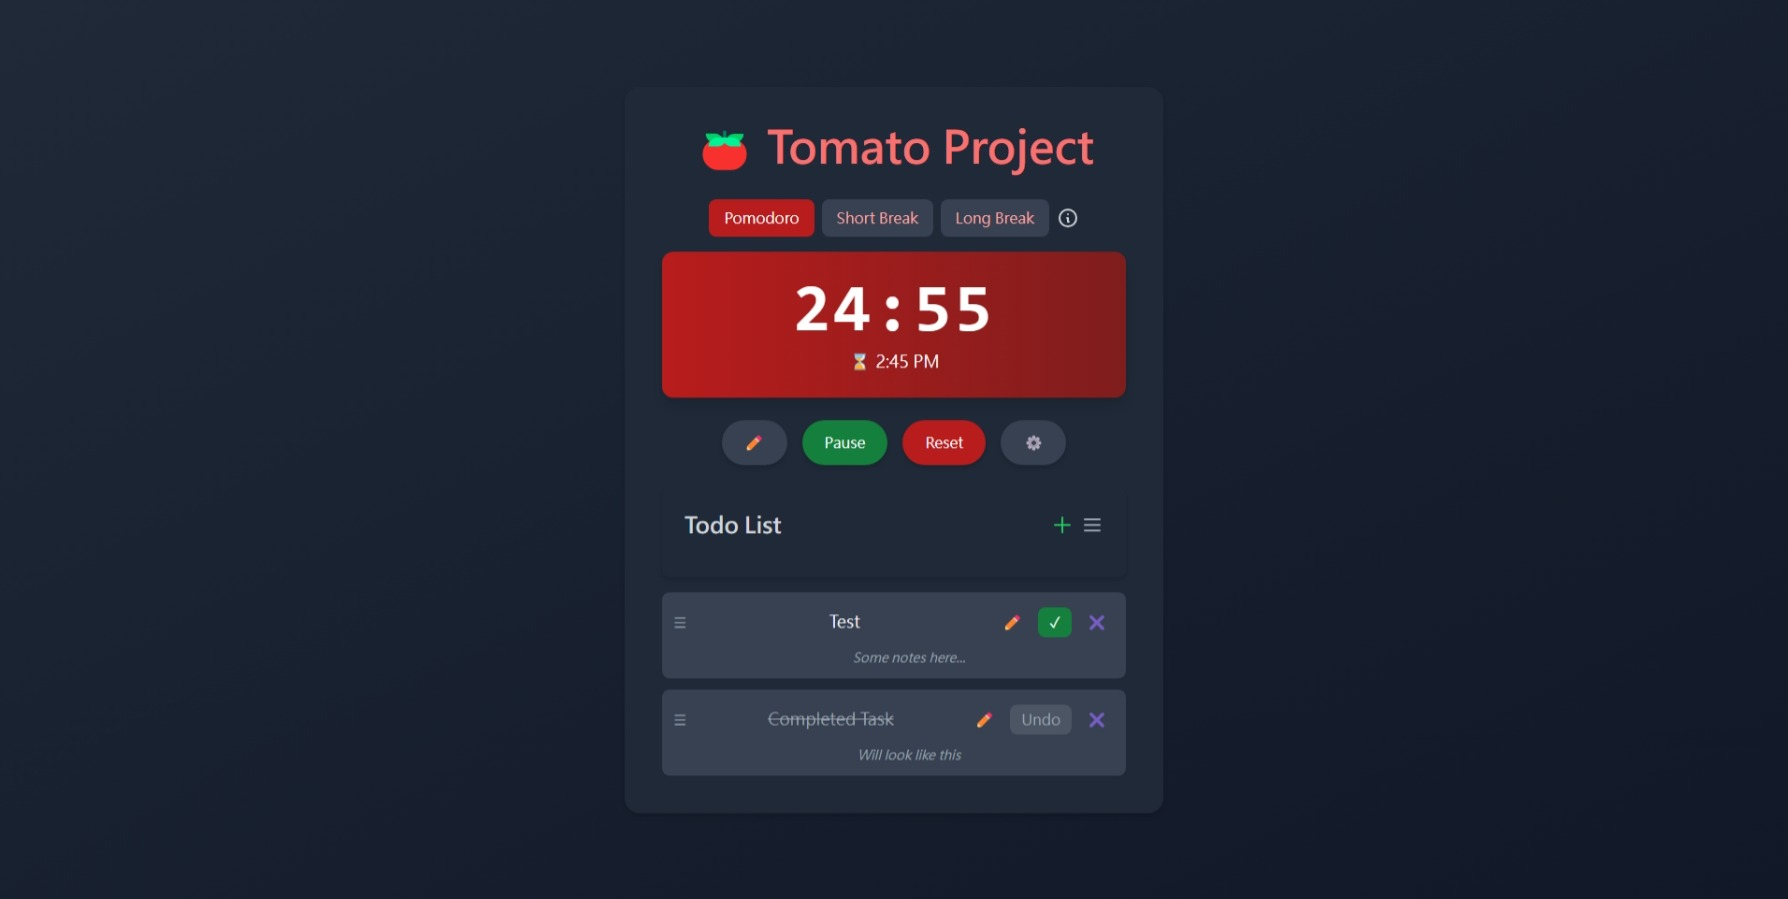
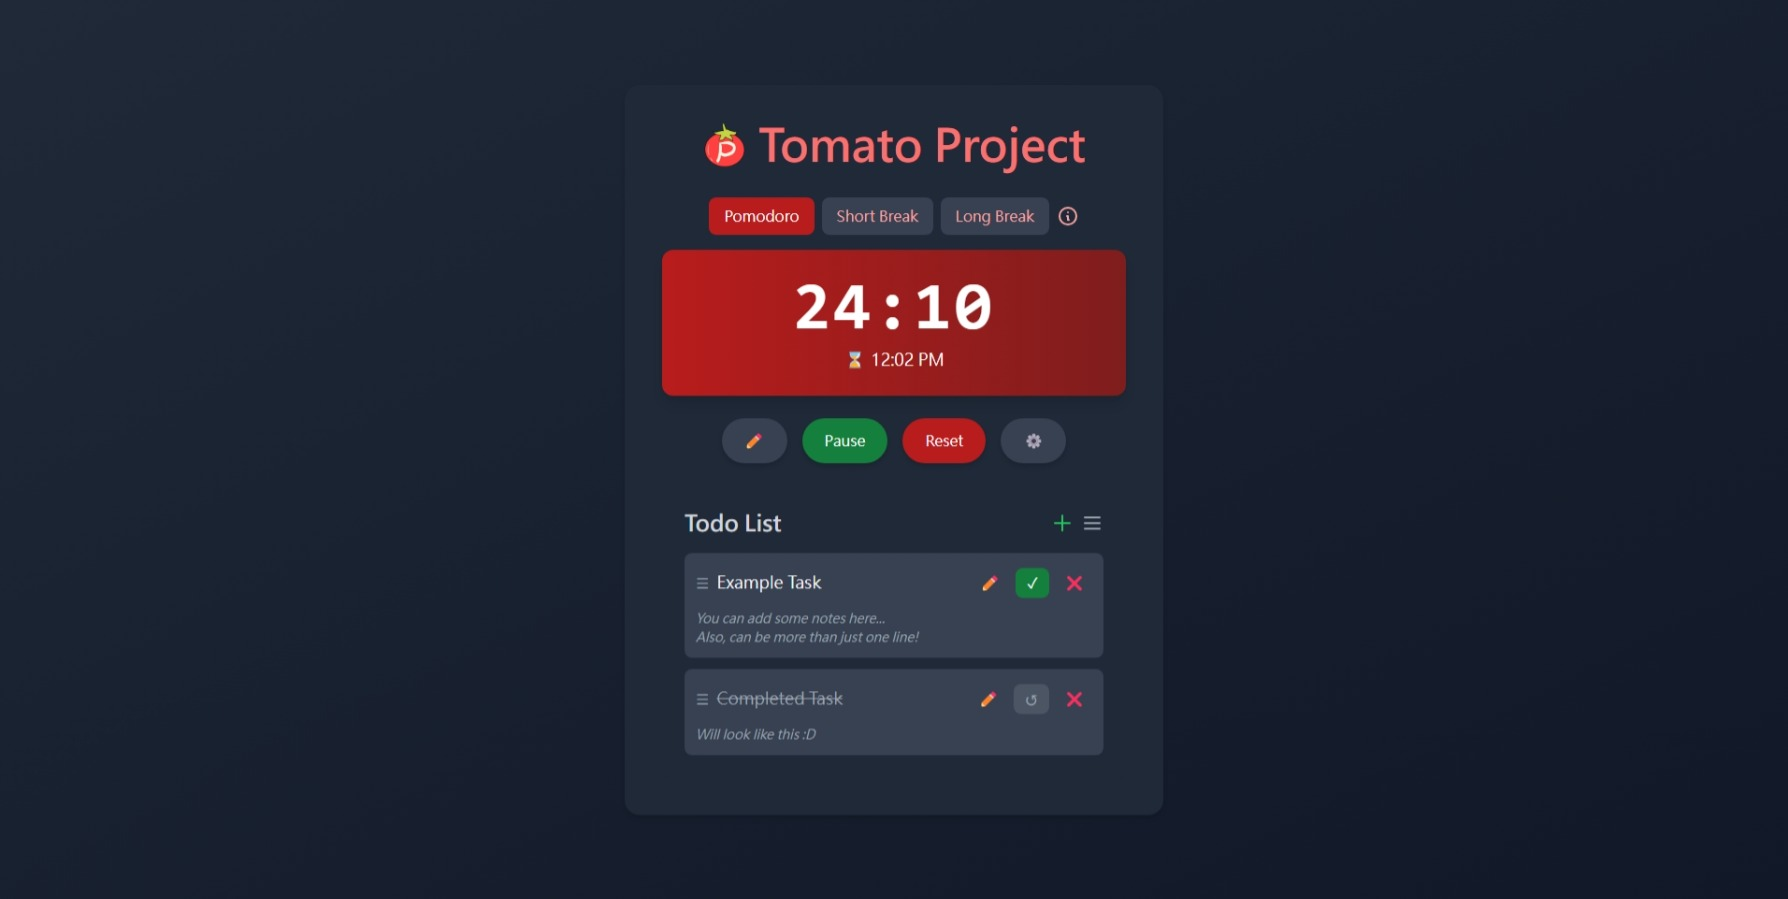
Update

diff --git a/index.html b/index.html
@@ -6,7 +6,7 @@ I burn up, burn out
 I shouldn't do this to myself
 
 Musician
-by Porter Robinson
+by Porter Robi(⚬⃔⚬ℕ⚬⃔⚬)son
 -->
 
 <!DOCTYPE html>
@@ -14,6 +14,7 @@ by Porter Robinson
     <head>
         <meta charset="UTF-8">
         <meta name="viewport" content="width=device-width, initial-scale=1.0">
+        <link rel="icon" href="./icon.png" type="image/png">
         <meta name="description" content="A simple Pomodoro timer to help you stay focused and productive.">
         <title>25:00 - Tomato Project</title>
         <script src="https://cdn.tailwindcss.com"></script>
@@ -23,7 +24,7 @@ by Porter Robinson
         <div class="container mx-auto max-w-xl timer-container">
             <div class="bg-white rounded-2xl shadow-2xl p-10 text-center dark:bg-gray-800 dark:shadow-md">
             <h1 class="text-5xl font-bold mb-8 text-red-600 flex items-center justify-center dark:text-red-400">
-                <span class="mr-3">🍅</span>Tomato Project
+                <img src="./icon.png" alt="Tomato Icon" class="mr-3 w-12 h-12">Tomato Project
             </h1>
 
             <div class="flex flex-wrap justify-center space-x-2 mb-4 mode-tabs" id="mode-tabs">
@@ -36,7 +37,7 @@ by Porter Robinson
                 <button data-mode="long-break" class="mode-tab w-full md:w-auto px-4 py-2 rounded-lg transition-colors duration-200 bg-red-100 text-red-700 hover:bg-red-200 dark:bg-gray-700 dark:text-red-300 dark:hover:bg-gray-600">
                 Long Break
                 </button>
-                <button id="pomodoro-info-btn" class="ml-2 text-gray-500 hover:text-gray-700 dark:text-gray-300 dark:hover:text-gray-100" title="Pomodoro Info">
+                <button id="pomodoro-info-btn" class="ml-2 text-red-500 hover:text-red-700 dark:text-red-300 dark:hover:text-red-200" title="Pomodoro Info">
                     <svg xmlns="http://www.w3.org/2000/svg" class="h-6 w-6" fill="none" viewBox="0 0 24 24" stroke="currentColor">
                         <path stroke-linecap="round" stroke-linejoin="round" stroke-width="2" d="M13 16h-1v-4h-1m1 4h.01M12 8h.01M21 12c0 4.97-4.03 9-9 9s-9-4.03-9-9 4.03-9 9-9 9 4.03 9 9z" />
                     </svg>
@@ -86,10 +87,11 @@ by Porter Robinson
                 />
                 </div>
             </div>
-            <div id="todo-section" class="bg-white dark:bg-gray-800 rounded-lg shadow-md p-6 mt-6 relative">
+
+            <div id="todo-section" class="rounded-lg p-6 mt-6 relative bg-white dark:bg-gray-800">
                 <div class="flex justify-between items-center mb-4">
                     <h2 class="text-2xl font-bold text-gray-700 dark:text-gray-300">Todo List</h2>
-                    <div class="flex items-center space-x-2">
+                    <div class="flex items-center space-x-2 relative">
                         <button title="Add task" id="add-todo-toggle" class="text-green-500 hover:text-green-600">
                             <svg xmlns="http://www.w3.org/2000/svg" class="h-6 w-6" fill="none" viewBox="0 0 24 24" stroke="currentColor">
                                 <path stroke-linecap="round" stroke-linejoin="round" stroke-width="2" d="M12 4v16m8-8H4" />
@@ -116,6 +118,8 @@ by Porter Robinson
                         </div>
                     </div>
                 </div>
+
+                <ul id="todo-list" class="list-none space-y-3 mt-4"></ul>
                 
                 <div id="todo-input-container" class="hidden fixed inset-0 bg-black bg-opacity-50 flex items-center justify-center z-50">
                     <div class="bg-white dark:bg-gray-800 rounded-lg p-6 w-96 shadow-2xl">
@@ -187,8 +191,6 @@ by Porter Robinson
                     </div>
                 </div>
             </div>
-
-            <ul id="todo-list" class="list-none space-y-3 mt-4"></ul>
 
             <div id="settings-panel" class="hidden fixed inset-0 bg-black bg-opacity-50 flex items-center justify-center z-50">
                 <div class="bg-white rounded-lg p-8 w-[700px] min-h-[600px] max-h-[90vh] flex flex-col shadow-2xl dark:bg-gray-800 dark:text-gray-100">
@@ -364,11 +366,16 @@ by Porter Robinson
                             </div>
                             
                             <div id="about-settings" class="settings-content hidden space-y-6">
-                                <h3 class="text-2xl font-semibold mb-4 dark:text-gray-100">🍅 Tomato Project [Preview]</h3>
-                                <p class="text-gray-700 dark:text-gray-300">A simple Pomodoro timer to help you stay focused and productive.</p>
+                                <div class="flex items-center space-x-4">
+                                    <img src="./icon.png" alt="Tomato Icon" class="w-16 h-16">
+                                    <div>
+                                        <h3 class="text-2xl font-semibold mb-2 dark:text-gray-100 text-left">Tomato Project [Preview]</h3>
+                                        <p class="text-gray-700 dark:text-gray-300 text-left">A simple Pomodoro timer to help you stay focused and productive.</p>
+                                    </div>
+                                </div>
                                 <div class="border-t dark:border-gray-700 pt-6 flex flex-col items-center text-center">
                                     <h4 class="text-xl font-semibold mb-4 dark:text-gray-100">Developer</h4>
-                                    <img src="https://github.com/york9675.png" alt="York" class="w-24 h-24 rounded-full object-cover mb-4">
+                                    <img src="https://github.com/york9675.png" alt="York" class="w-20 h-20 rounded-full object-cover mb-4">
                                     <h5 class="text-lg font-semibold dark:text-gray-100 mb-2">York</h5>
                                     <div class="flex space-x-3">
                                         <a href="https://github.com/york9675" target="_blank" rel="noopener noreferrer" 
@@ -387,7 +394,8 @@ by Porter Robinson
                                         </a>
                                     </div>
                                 </div>
-                                <p class="text-sm text-gray-500 dark:text-gray-500">© 2025 York Development<br>Made with ❤ in Taiwan</p>
+                                <p class="text-sm text-gray-500 dark:text-gray-500">© 2025 <a href="https://york9675.github.io/website/" target="_blank" rel="noopener noreferrer" class="underline hover:text-gray-700 dark:hover:text-gray-300">York Development</a><br>Made with ❤ in Taiwan</p>
+                                <p class="text-sm text-gray-500 dark:text-gray-500">View this project on <a href="https://github.com/york9675/Tomato-Project" target="_blank" rel="noopener noreferrer" class="underline hover:text-gray-700 dark:hover:text-gray-300">GitHub</a>
                             </div>
                         </div>
                     </div>

diff --git a/script.js b/script.js
@@ -1,3 +1,10 @@
+// 私はちょうど何が重要か
+//
+// Flicker
+// by Porter Robinson
+//
+// 【=◈︿◈=】
+
 let storedShowEndTime = localStorage.getItem('showEndTime');
 let showEndTime = storedShowEndTime !== null ? JSON.parse(storedShowEndTime) : true;
 let timeFormat = localStorage.getItem('timeFormat') || '12';
@@ -480,7 +487,7 @@ function renderTodos() {
     todoList.innerHTML = '';
     todos.forEach((todo, index) => {
         const todoItem = document.createElement('li');
-        todoItem.className = 'flex flex-col p-3 bg-gray-100 dark:bg-gray-700 rounded-lg mb-2 shadow-sm draggable';
+        todoItem.className = 'flex flex-col p-3 bg-gray-100 dark:bg-gray-700 rounded-lg mb-2 shadow-sm draggable text-left';
         todoItem.draggable = true;
         todoItem.dataset.index = index;
 
@@ -505,7 +512,7 @@ function renderTodos() {
         editBtn.addEventListener('click', () => openEditModal(index));
         
         const completeBtn = document.createElement('button');
-        completeBtn.textContent = todo.completed ? 'Undo' : '✓';
+        completeBtn.textContent = todo.completed ? '↺' : '✓';
         completeBtn.className = `px-3 py-1 ${todo.completed 
             ? 'bg-gray-300 text-gray-600 dark:bg-gray-600 dark:text-gray-400' 
             : 'bg-green-500 text-white hover:bg-green-600 dark:bg-green-700 dark:hover:bg-green-600'} 
@@ -513,7 +520,7 @@ function renderTodos() {
         completeBtn.addEventListener('click', () => toggleComplete(index));
         
         const deleteBtn = document.createElement('button');
-        deleteBtn.textContent = '✖';
+        deleteBtn.textContent = '❌';
         deleteBtn.className = 'text-red-500 hover:text-red-600 p-2 rounded-full hover:bg-red-100 dark:hover:bg-gray-600';
         deleteBtn.addEventListener('click', () => showDeleteConfirmation(index));
         
@@ -524,7 +531,7 @@ function renderTodos() {
         if (todo.note) {
             const noteSection = document.createElement('div');
             noteSection.textContent = todo.note;
-            noteSection.className = 'text-sm text-gray-600 dark:text-gray-400 italic pl-8 whitespace-pre-wrap';
+            noteSection.className = 'text-sm text-gray-600 dark:text-gray-400 italic whitespace-pre-wrap text-left';
             todoItem.appendChild(noteSection);
         }
         

diff --git a/styles.css b/styles.css
@@ -1,3 +1,11 @@
+/*
+And I know, I' not alone, you'll be watching over us
+Until you're gone
+
+Shelter
+by Porter Robinson
+*/
+
 @media (max-width: 640px) {
     .container {
         max-width: 100%;

diff --git a/README.md b/README.md
@@ -21,6 +21,9 @@
 > [!WARNING]\
 > This project is still under development.
 
+> [!NOTE]\
+> Desktop/Laptop/iPad is recommended for the best experience since the app is not optimized for mobile devices yet.
+
 ## Features
 
 - **Pomodoro Timer:** A simple timer to help you stay focused and productive.
